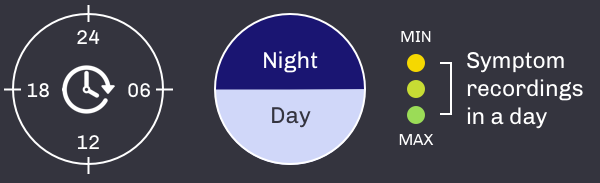
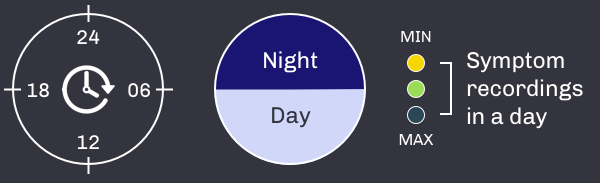
colors

diff --git a/src/RadialLineChart/RadialLineChart.js b/src/RadialLineChart/RadialLineChart.js
@@ -15,10 +15,10 @@ import './radialLineChart.scss'
 
 const margin = {top: 20, right: 10, bottom: 20, left: 10};
 
-const width = 650 - margin.left - margin.right,
-  height = 650 - margin.top - margin.bottom;
+const width = 700 - margin.left - margin.right,
+  height = 700 - margin.top - margin.bottom;
 
-const innerRadius = 100,
+const innerRadius = 120,
     outerRadius = Math.min(width, height) / 2 - 6;
 
 const formatHour = d3.timeFormat("%I %p")
@@ -162,7 +162,7 @@ class RadialLineChart extends React.Component {
     var numColors = 9;
     var colorScale = d3.scaleLinear()
       .domain([0,(numColors-1)/2,numColors-1])
-      // .range(["#ffffd9", '#41B6C4',"#081d58"])
+      // .range(["#dfedbb", '#EFCD22',"#f26063"])
       // .range(["#ffffd9","#c7e9b4",'#41B6C4', "#41b6c4","#225ea8","#081d58"])
       .range(["#F5D801", "#74D877", "#2A4858"])
       .interpolate(d3.interpolateHcl);
@@ -192,6 +192,7 @@ class RadialLineChart extends React.Component {
         .datum(this.props.avgWeekday)
         .attr("fill", "none")
         .attr("stroke", "#9071f7")
+        // .attr("stroke", "#9071f7")
         .attr("stroke-width", 2)
         .attr("d", line);
     }
@@ -202,6 +203,7 @@ class RadialLineChart extends React.Component {
         .datum(this.props.avgWeekdayInAMonth)
         .attr("fill", "none")
         .attr("stroke", "#fc7358")
+        // .attr('stroke', '#0ca9b3')
         .attr("stroke-width", 2)
         // .attr("stroke-width", function(d) { console.log(d.value );return y(d.value); })
         .attr("d", line);
@@ -267,7 +269,7 @@ class RadialLineChart extends React.Component {
       });
 
     //for from to pie chart
-    const radius = 70;
+    const radius = 90;
     const fromClock = 15/2;
     const toClock = 9/2;
 
@@ -310,7 +312,7 @@ class RadialLineChart extends React.Component {
     return(
       <div className="radialContainer center">
 
-        <svg width={650} height={650}
+        <svg width={700} height={700}
             ref="svgElem" className="radialSvg">
         </svg>
 

diff --git a/src/CalendarRadial/CalendarRadial.js b/src/CalendarRadial/CalendarRadial.js
@@ -116,6 +116,7 @@ class CalendarRadial extends React.Component {
     var colorScale = d3.scaleLinear()
       .domain([0,(numColors-1)/2,numColors-1])
       .range(["#F5D801", "#74D877", "#2A4858"])
+      // .range(["#dfedbb", '#EFCD22',"#f26063"])
       .interpolate(d3.interpolateHcl);
 
     var gradient = g.append("defs").append("radialGradient")
@@ -127,7 +128,8 @@ class CalendarRadial extends React.Component {
       .selectAll("stop")
       .data(d3.range(numColors))
       .enter().append("stop")
-      .attr("offset", function(d,i) { return (i/(numColors-1)*50 + 45) + "%"; })
+      // .attr("offset", function(d,i) { return (i/(numColors-1)*50 + 45) + "%"; })
+      .attr("offset", function(d,i) { return (i/(numColors-1)*50 + 35) + "%"; })
       .attr("stop-color", function(d) { return colorScale(d); });
 
     var linePlot = g.append("path")

diff --git a/src/BarChart/BarChart.js b/src/BarChart/BarChart.js
@@ -159,7 +159,7 @@ class BarChart extends React.Component {
     svg.append("path")
       .datum(avgWeekday)
       .attr("fill", "none")
-      .attr("stroke", "#2A41E5")
+      .attr("stroke", "#9071f7")
       .attr("stroke-width", 2)
       .attr("d", d3.line()
         .x(function(d) { return x(d.key) })
@@ -173,7 +173,7 @@ class BarChart extends React.Component {
       svg.append("path")
         .datum(avgWeekdayInAMonth)
         .attr("fill", "none")
-        .attr("stroke", "#9f59ea")
+        .attr("stroke", "#fc7358")
         .attr("stroke-width", 2)
         .attr("d", d3.line()
           .x(function(d) { return x(d.key) })

diff --git a/src/Menu/menu.scss b/src/Menu/menu.scss
@@ -38,6 +38,8 @@ $highlight-color: #F5D800;
 
   .thisMonthDot {
     background-color: #fc7358;
+    // background-color: #0ca9b3;
+
   }
 
   .weekdaysDot {
@@ -165,6 +167,7 @@ $highlight-color: #F5D800;
   height: 20px;
   border-radius: 4px;
   background-image: linear-gradient(to right, #fff , #46a7c4);
+  // background-image: linear-gradient(to right, #fff , #9486d6);
   margin: 10px 0px 3px 0px ;
 }
 

diff --git a/src/Calendar/Calendar.js b/src/Calendar/Calendar.js
@@ -47,6 +47,7 @@ class Calendar extends Component {
 
     const myColor = scaleLinear()
     .range(["white" , "#46a7c4"])
+    // .range(['white', '#9486d6'])
     .domain([0,d3.max(occurences)])
 
     if (this.props.heatmapChecked === true) {
